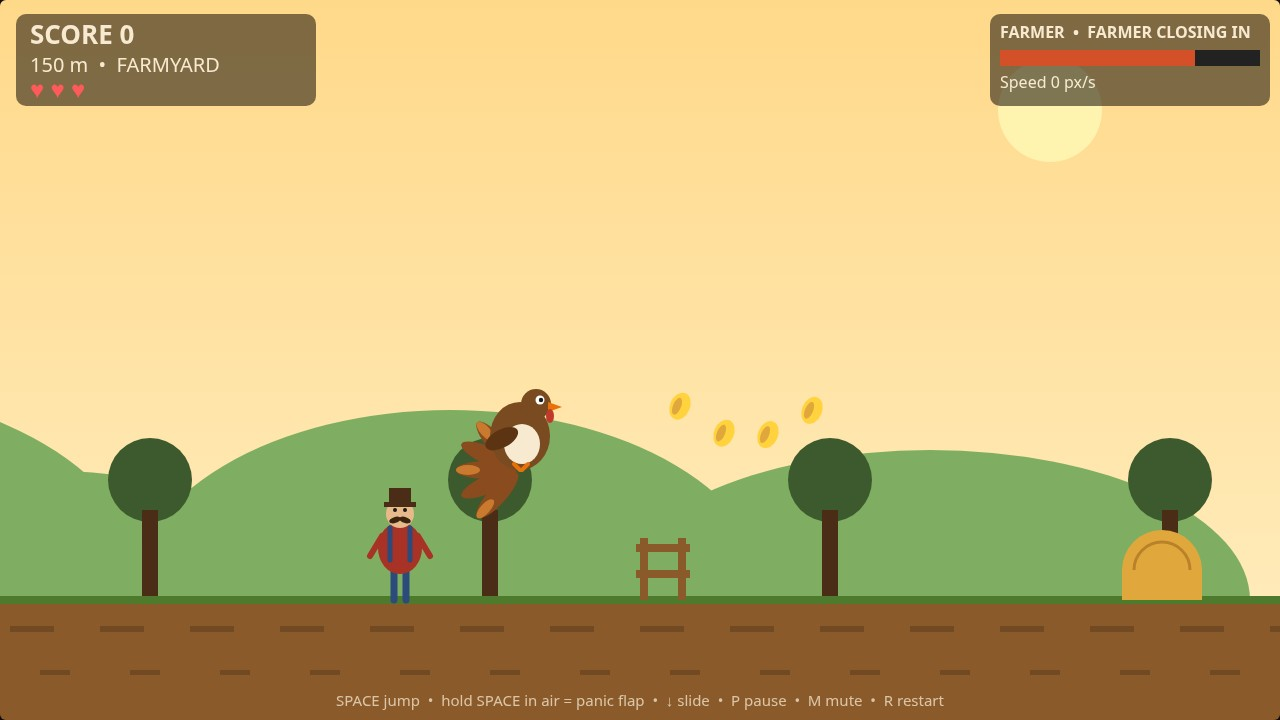
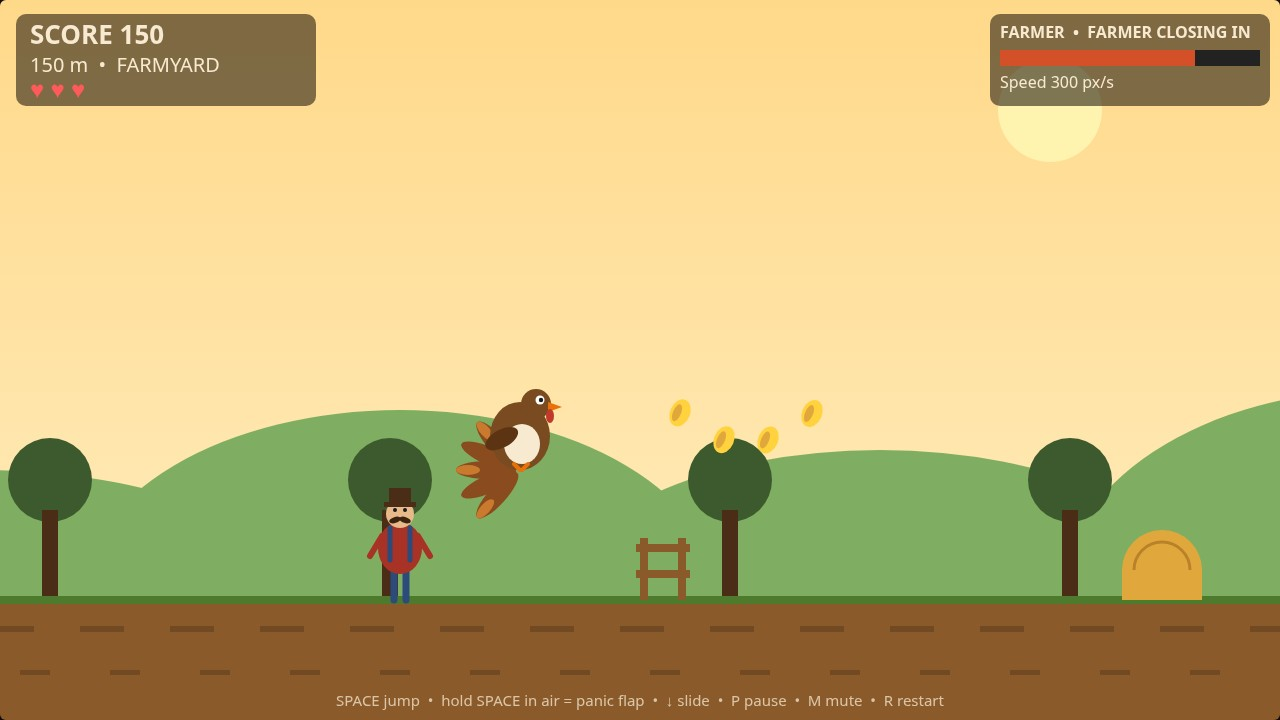
TURKEY RUN - gate fix: minGap 360/400/440, pumpkin 25 px/s, HUD distance offset, shot scores/speeds + 2 re-shot screenshots

diff --git a/game/src/shots.js b/game/src/shots.js
@@ -41,17 +41,20 @@ export function applyShot(s) {
   if (shot === 'farmyard') {
     s.mode = 'playing';
     s.world.stage = 0;
-    s.turkey.x = 6000;
+    // Score matches the displayed distance (150 m); world coords shifted
+    // +200 px (= startX) so (x - startX) / 40 reads exactly 150 m.
+    s.score = 150;
+    s.turkey.x = 6200;
     s.turkey.y = GROUND - 130; // mid-jump
     s.turkey.vy = -220;
     s.turkey.grounded = false;
     s.farmer.gap = 120; // farmer visible at the left edge
     s.camX = s.turkey.x - 520;
-    s.world.obstacles.push(makeObstacle('fence', 6120));
-    s.world.obstacles.push(makeObstacle('hay', 6600));
-    s.world.obstacles.push(makeObstacle('pumpkin', 6900));
+    s.world.obstacles.push(makeObstacle('fence', 6320));
+    s.world.obstacles.push(makeObstacle('hay', 6800));
+    s.world.obstacles.push(makeObstacle('pumpkin', 7100));
     for (let i = 0; i < 4; i++) {
-      s.world.collectibles.push({ type: 'corn', x: 6160 + i * 44, y: GROUND - 190 + Math.sin((i / 3) * Math.PI) * 30, taken: false });
+      s.world.collectibles.push({ type: 'corn', x: 6360 + i * 44, y: GROUND - 190 + Math.sin((i / 3) * Math.PI) * 30, taken: false });
     }
     return true;
   }
@@ -59,23 +62,26 @@ export function applyShot(s) {
   if (shot === 'kitchen') {
     s.mode = 'playing';
     s.world.stage = 2;
-    s.turkey.x = 46000; // ~1150 m, deep in stage 3 (night)
+    // Score matches the displayed distance (1150 m); coords shifted +200 px
+    // (= startX) so (x - startX) / 40 reads exactly 1150 m.
+    s.score = 1150;
+    s.turkey.x = 46200; // 1150 m, deep in stage 3 (night)
     s.turkey.y = GROUND;
     s.turkey.grounded = true;
     s.farmer.gap = 60; // farmer right behind: red proximity bar (closeness 0.875)
     // camX = turkey.x - 300 (was -520): pot/knife were at the far right edge
     // (screen 1220/1170, barely visible). Now: firejet 700, knife 950, pot 1000.
     s.camX = s.turkey.x - 300;
-    const jet = makeObstacle('firejet', 46400, { cycle: 1.5 }); // bursting
+    const jet = makeObstacle('firejet', 46600, { cycle: 1.5 }); // bursting
     jet.burst = true;
     s.world.obstacles.push(jet);
     // Knife 'stuck' (was 'warn'): warn shows only a floor shadow + "!",
     // the blade itself is invisible. A stuck blade reads as a knife.
-    const knife = makeObstacle('knifeFall', 46650, {});
+    const knife = makeObstacle('knifeFall', 46850, {});
     knife.state = 'stuck';
     s.world.obstacles.push(knife);
-    s.world.obstacles.push(makeObstacle('pot', 46700));
-    s.world.collectibles.push({ type: 'feather', x: 46520, y: GROUND - 200, taken: false });
+    s.world.obstacles.push(makeObstacle('pot', 46900));
+    s.world.collectibles.push({ type: 'feather', x: 46720, y: GROUND - 200, taken: false });
     return true;
   }
 

diff --git a/game/src/hud.js b/game/src/hud.js
@@ -1,6 +1,6 @@
 // HUD (canvas-drawn): score, distance, hearts, stage name, farmer proximity
 // bar (green -> red + label), speed. Title / pause / CAUGHT / ESCAPED screens.
-import { CONFIG, STAGE_NAMES } from './config.js';
+import { CONFIG, STAGE_NAMES, runSpeedForStage } from './config.js';
 
 const W = CONFIG.canvas.w;
 const H = CONFIG.canvas.h;
@@ -14,7 +14,8 @@ function panel(ctx, x, y, w, h) {
 
 export function drawHUD(ctx, s) {
   const t = s.turkey;
-  const distM = Math.floor(t.x / CONFIG.pxPerM);
+  // Distance run from the start line (turkey starts at startX = 200 px = 5 m).
+  const distM = Math.floor((t.x - CONFIG.turkey.startX) / CONFIG.pxPerM);
 
   panel(ctx, 16, 14, 300, 92);
   ctx.textAlign = 'left';
@@ -53,7 +54,10 @@ export function drawHUD(ctx, s) {
   ctx.fillRect(bx, 50, barW * closeness, 16);
   ctx.fillStyle = '#f7ead1';
   ctx.font = '16px system-ui, sans-serif';
-  ctx.fillText('Speed ' + Math.round(s.speed) + ' px/s' + (s.boost > 0 ? '  •  PIE BOOST!' : ''), bx, 88);
+  // In shot mode the game never ticks, so s.speed stays 0 — show the
+  // stage's run speed instead (live play is unaffected: speed is non-zero).
+  const speed = s.shotMode ? runSpeedForStage(s.world.stage) : s.speed;
+  ctx.fillText('Speed ' + Math.round(speed) + ' px/s' + (s.boost > 0 ? '  •  PIE BOOST!' : ''), bx, 88);
 
   // Controls hint (bottom).
   ctx.textAlign = 'center';
@@ -115,7 +119,7 @@ export function drawPause(ctx) {
 export function drawCaught(ctx, s) {
   ctx.fillStyle = 'rgba(40,4,4,0.72)';
   ctx.fillRect(0, 0, W, H);
-  bigTitle(ctx, 'DINNER IS SERVED...', 'The farmer caught you at ' + Math.floor(s.turkey.x / CONFIG.pxPerM) + ' m', '#ff7b6b');
+  bigTitle(ctx, 'DINNER IS SERVED...', 'The farmer caught you at ' + Math.floor((s.turkey.x - CONFIG.turkey.startX) / CONFIG.pxPerM) + ' m', '#ff7b6b');
   ctx.textAlign = 'center';
   ctx.fillStyle = '#f7ead1';
   ctx.font = '26px system-ui, sans-serif';

diff --git a/game/src/config.js b/game/src/config.js
@@ -8,9 +8,9 @@ export const CONFIG = {
 
   // Stage lengths in metres; forest gate at 1400 m.
   stages: [
-    { name: 'FARMYARD', lenM: 500, speed: 300, minGap: 300 },
-    { name: 'BARN', lenM: 500, speed: 360, minGap: 340 },
-    { name: 'KITCHEN', lenM: 400, speed: 420, minGap: 380 },
+    { name: 'FARMYARD', lenM: 500, speed: 300, minGap: 360 },
+    { name: 'BARN', lenM: 500, speed: 360, minGap: 400 },
+    { name: 'KITCHEN', lenM: 400, speed: 420, minGap: 440 },
   ],
   gateM: 1400,
   pieBoostMul: 1.35,

diff --git a/game/src/obstacles.js b/game/src/obstacles.js
@@ -13,7 +13,7 @@ export function makeObstacle(type, x, opts) {
     case 'hay':
       o.w = 84; o.h = 70; break;
     case 'pumpkin':
-      o.w = 56; o.h = 56; o.vx = 40; break; // rolls toward player (+40 px/s)
+      o.w = 56; o.h = 56; o.vx = 25; break; // rolls toward player (25 px/s; was 40: it closed the landing gap too fast for the gate run)
     case 'knifeSwing':
       o.w = 30; o.h = 120; o.pivotY = GROUND - 190; o.phase = o.phase || 0; break;
     case 'beam':

diff --git a/game/src/main.js b/game/src/main.js
@@ -285,7 +285,7 @@ Object.defineProperty(window, '__turkeyrun', {
     get snapshot() {
       return {
         score: s.score,
-        distance: Math.floor(s.turkey.x / CONFIG.pxPerM),
+        distance: Math.floor((s.turkey.x - CONFIG.turkey.startX) / CONFIG.pxPerM),
         lives: s.turkey.lives,
         stage: s.world.stage,
         gap: Math.round(s.farmer.gap),
